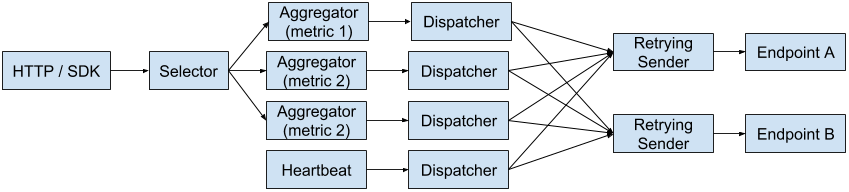
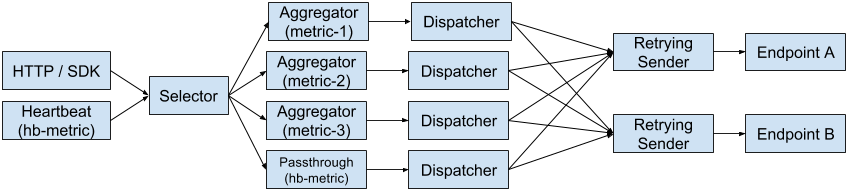
doc updates

diff --git a/doc/DESIGN.md b/doc/DESIGN.md
@@ -3,18 +3,29 @@
 ## Reporting Pipeline
 
 Behind the small HTTP interface is a pipeline constructed based on the agent's
-configuration. A basic pipeline with 3 user-reported metrics, a heartbeat metric,
-and 2 endpoints might look like this:
+configuration. The following diagram shows a basic pipeline consisting of:
+* 3 aggregated metrics
+* a passthrough metric
+* 2 endpoints
+* a heartbeat source
 
 ![Pipeline](pipeline.png)
 
-#### Metric value input
-For metrics of type `reported`, values are reported to the agent from an
-external source, either via its HTTP interface or through an SDK API call.
-These metric reports first reach a `Selector` which selects the appropriate
-`Aggregator` based on metric name.
+#### Sources
 
-Other metric types, such as `heartbeat`, serve as their own data source.
+Metric values can be reported to the agent via its HTTP interface or SDK API,
+or they can originate from one of the agent's built-in sources, such as a
+heartbeat. All metric values, including those from built-in sources, enter
+the pipeline at the same place and are subject to the same aggregation
+configuration.
+
+#### Metric value buffering
+
+Metrics can (and in most cases should) be defined with an aggregation period.
+If a metric is defined as `passthrough`, reports that the agent receives are
+sent directly to configured endpoints. Possible use cases for a `passthrough`
+metric are when the reporting process is handling buffering itself, such as
+a `heartbeat` source with a reasonable `intervalSeconds` value.
 
 #### Aggregator
 

diff --git a/README.md b/README.md
@@ -36,19 +36,19 @@ metrics:
   - name: on_disk
   - name: servicecontrol
 
-  # A 'reported' metric is one whose values are provided by an external application via the agent's
-  # HTTP interface.
-  reported:
-    # bufferSeconds indicates how long values area aggregated prior to being sent to endpoints.
+  # The aggregation section indicates that reports that the agent receives for this metric should
+  # be aggregated for a specified period of time prior to being sent to the reporting endpoint.
+  aggregation:
     bufferSeconds: 10
 
 - name: instance-seconds
   type: int
+  # The empty passthrough second indicates that no aggregation should occur for this metric.
+  # Reports received are immediately sent to the reporting endpoint.
+  passthrough: {}
   endpoints:
   - name: on_disk
   - name: servicecontrol
-  reported:
-    bufferSeconds: 10
 
 # The endpoints section defines where metering data is ultimately sent. Currently
 # supported endpoints include:
@@ -64,6 +64,18 @@ endpoints:
     identity: gcp
     serviceName: some-service-name.myapi.com
     consumerId: project:<project_id>
+
+# The sources section lists metric data sources run by the agent itself. The currently-supported
+# source is 'heartbeat', which sends a defined value to a metric at a defined interval.
+sources:
+- name: instance-seconds
+  heartbeat:
+    metric: instance-seconds
+    intervalSeconds: 10
+    value:
+      intValue: 10
+    labels:
+      auto: true
 ```
 
 # Running
